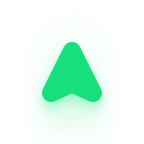
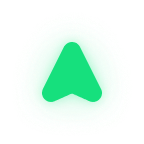
i19: Update user marker shadow and change throttle to 50

diff --git a/frontend/mapbox/index.js b/frontend/mapbox/index.js
@@ -73,7 +73,7 @@ export default class Map extends Component {
           }
         });
       }
-    }, 200, {trailing: false})
+    }, 50, {trailing: false})
   }
   
   componentDidMount() {
